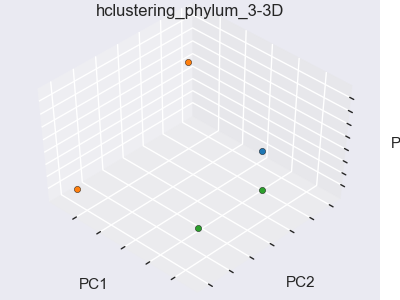
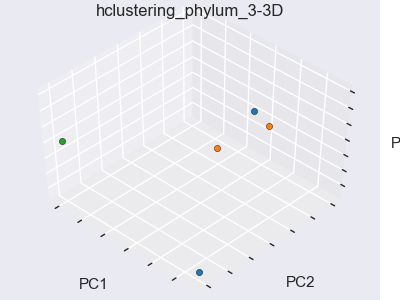
testing plots for lstm_vae added

diff --git a/ml/model/vae/lstm/interface.py b/ml/model/vae/lstm/interface.py
@@ -289,8 +289,17 @@ def test_model(path_config, args=None):
     # print(np.unique(label).shape)
 
     # plotFigs
+    # labelslis = np.empty((label.shape[0]), dtype='str')
+    labelslis = []
+    for i in range(label.shape[0]):
+        labelslis.append(scheme[label[i]])
+        # plt.scatter(pred_new[i, 0], pred_new[i, 1],
+        #            c=scheme[labels[i]], edgecolor='k')
+
+    # plt.scatter(pred_new_ground[:, 0], pred_new_ground[:, 1],
+    #            c=labelslis, edgecolor='k')
     ax.scatter(pred_new[:, 0], pred_new[:, 1], pred_new[:, 2],
-               c=label.astype(np.float), edgecolor='k')
+               c=labelslis, edgecolor='k')
 
     ax.w_xaxis.set_ticklabels([])
     ax.w_yaxis.set_ticklabels([])
@@ -331,9 +340,15 @@ def test_model(path_config, args=None):
 
     plt.figure(figsize=(4, 3))
 
+    # labelslis = np.empty((label.shape[0]), dtype='str')
+    labelslis = []
+    for i in range(label.shape[0]):
+        labelslis.append(scheme[label[i]])
+        # plt.scatter(pred_new[i, 0], pred_new[i, 1],
+        #            c=scheme[labels[i]], edgecolor='k')
 
     plt.scatter(pred_new_ground[:, 0], pred_new_ground[:, 1],
-               c=label.astype(np.float), edgecolor='k')
+               c=labelslis, edgecolor='k')
 
 
     plt.xlabel('PC1')
